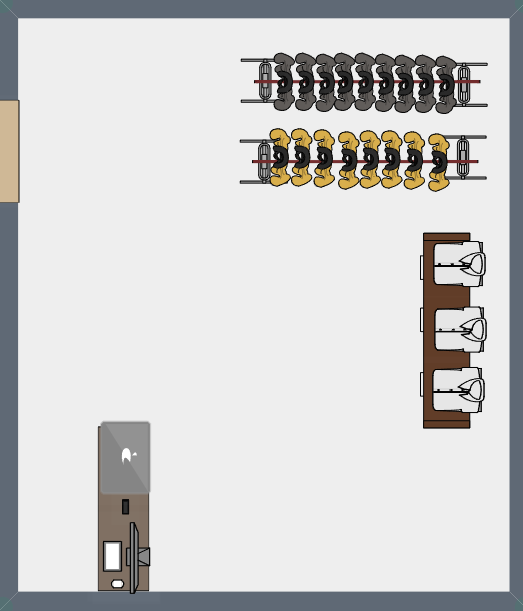
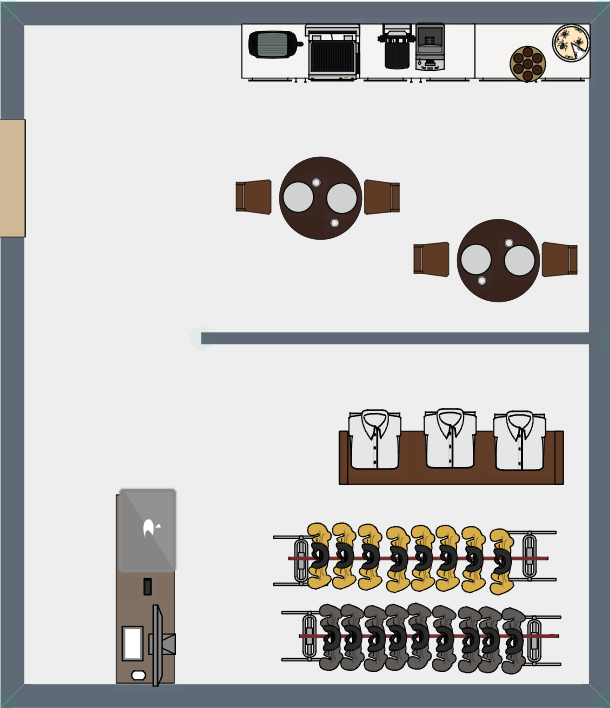
affichage evenement et ajout de quelque avenement

Changed region(s): [[0.0, 0.0, 1.0, 0.9951]]

diff --git a/src/gui/SidePanel.java b/src/gui/SidePanel.java
@@ -16,12 +16,14 @@ public class SidePanel extends JPanel {
     private Chronometer chronometer;
     private JLabel timeLabel;
     private JLabel dayLabel;
+    private JLabel globalPannelLabel;
 
     // menu de selction Sim qui contient uniquement les nome des sims et pas les istances des sims
-    private JComboBox<String> comboBox;
+
     private JProgressBar globalBar = new JProgressBar(0, 100);
     private JLabel globalVal = new JLabel("0%");
     private Sims sims;
+    private String selectedSimName;
     
     private JTextArea detailRoutine = new JTextArea();
  
@@ -29,13 +31,16 @@ public class SidePanel extends JPanel {
     private JTextArea detailEvenements = new JTextArea(10,10);
 
     public SidePanel(Chronometer chronometer, String[] array, Sims sims, ArrayList<String> derniersEvenements) {
-        this.chronometer = chronometer;
-        this.sims = sims;
-        this.derniersEvenementsList=derniersEvenements;
         this.setPreferredSize(new Dimension(GameConfiguration.SIDE_PANEL_WIDTH, GameConfiguration.WINDOW_HEIGHT));
-
         this.setLayout(new GridLayout(20, 2));
         this.setBorder(new EmptyBorder(10, 10, 10, 10));
+    	
+    	this.chronometer = chronometer;
+        this.sims = sims;
+        this.derniersEvenementsList=derniersEvenements;
+        
+
+        
 
         dayLabel = new JLabel("JOUR " + chronometer.getDay(), SwingConstants.CENTER);
         dayLabel.setFont(new Font("Monospaced", Font.BOLD, 15));
@@ -43,15 +48,19 @@ public class SidePanel extends JPanel {
         timeLabel = new JLabel("00:00:00", SwingConstants.CENTER);
         timeLabel.setFont(new Font("Monospaced", Font.BOLD, 25));
         
-        comboBox = new JComboBox<String>(array);
+
                                     
         add(new JLabel("Le nom de la ville"));
         add(dayLabel);
         add(timeLabel);
-        add(comboBox);
         
-        //nouveaux elts
-        add(new JLabel("État global du Sim"));
+        
+        //Le nom du sim selectioné
+        if (array != null && array.length > 0) {
+            selectedSimName = array[0];
+        }
+        globalPannelLabel=new JLabel("État global de "+ selectedSimName);
+        add(globalPannelLabel);
         
         JPanel globalPanel = new JPanel(new BorderLayout(5, 0));
         globalBar.setStringPainted(false);
@@ -69,12 +78,17 @@ public class SidePanel extends JPanel {
         routineBtn.addActionListener(e -> openRoutineDialog());
         add(routineBtn);
 
-        JButton eventButton = new JButton("Evenement en cours");
-        eventButton.addActionListener(e -> openEventDialog(derniersEvenements));
+        JButton eventButton = new JButton("Alertes Sims en cours");
+        eventButton.addActionListener(e -> openEventDialog());
         add(eventButton);
         
         //add(detailRoutine);
-        add(detailEvenements);
+        detailEvenements.setEditable(false);
+        detailEvenements.setLineWrap(true);
+        detailEvenements.setWrapStyleWord(true);
+        JScrollPane scrollPane = new JScrollPane(detailEvenements);
+        scrollPane.setPreferredSize(new Dimension(GameConfiguration.SIDE_PANEL_WIDTH - 30, 150));
+        add(scrollPane);
 
         nextRound();
     }
@@ -138,7 +152,7 @@ public class SidePanel extends JPanel {
         
     }
 
-    private void openEventDialog(ArrayList<String> derniersEvenements) {
+    private void openEventDialog() {
 
 
         String buffer = "" ;
@@ -148,10 +162,9 @@ public class SidePanel extends JPanel {
                 buffer+= sim.getNom() + " : " + sim.getEtats().toString() + "\n" ;
         }
         buffer += "";
-        buffer += derniersEvenements.toString();
         JTextArea textArea ;
         if (buffer.equals("")){
-            textArea = new JTextArea("aucun evenement en cours");
+            textArea = new JTextArea("Aucune alerte Sim en cours");
         }
         else {
             textArea = new JTextArea(buffer);
@@ -161,7 +174,7 @@ public class SidePanel extends JPanel {
         textArea.setFont(new Font("Monospaced", Font.PLAIN, 13));
         
         JOptionPane pane = new JOptionPane(textArea, JOptionPane.PLAIN_MESSAGE);
-        JDialog dialog = pane.createDialog(this, "Evenements en cours : ");
+        JDialog dialog = pane.createDialog(this, "Alertes Sims en cours: ");
         
         dialog.setVisible(true);
         
@@ -173,20 +186,38 @@ public class SidePanel extends JPanel {
             timeLabel.setText(chronometer.toString());
             dayLabel.setText("JOUR " + chronometer.getDay());
         }
+        
+        globalPannelLabel.setText("État global de "+ selectedSimName);
+        
         Sim s = sims.getSim(getSelectedSim());
         if (s != null) {
             int score = s.getScoreGlobal();
             globalBar.setValue(score);
             globalVal.setText(score + "%");
             
+            
             detailRoutine.setText(s.getRoutine().toString());
-            detailEvenements.setText(this.derniersEvenementsList.toString());
+            
+            detailEvenements.setText(printEventList());
         }
     }
-
-    
-    public String getSelectedSim() {
-        return (String) comboBox.getSelectedItem();
+    private String printEventList() {
+    	StringBuilder buffer= new StringBuilder("Les dernier evenements: \n");
+    	int dim=derniersEvenementsList.size()-1;
+    	for(int i=dim; i>=0; i-- ) {
+    		buffer.append(derniersEvenementsList.get(i)+"\n");
+    	}
+		return buffer.toString();
+    	
     }
+    
+    public void setSelectedSim(String name) {
+        this.selectedSimName = name;
+    }
+
+    public String getSelectedSim() {
+        return selectedSimName;
+    }
+
 
 }

diff --git a/src/gui/PaintStrategy.java b/src/gui/PaintStrategy.java
@@ -39,13 +39,13 @@ public class PaintStrategy {
 			for (int columnIndex = 0; columnIndex < map.getColumnCount(); columnIndex++) {
 				Block block = blocks[lineIndex][columnIndex];
 
-				graphics.setColor(Color.GREEN);
+				graphics.setColor(Color.GREEN.darker());
 				graphics.fillRect(block.getColumn() * blockSize, block.getLine() * blockSize, blockSize, blockSize);
-				
+				/*
 				if ((lineIndex + columnIndex) % 2 == 0) {
 					graphics.setColor(Color.green.darker());
 					graphics.fillRect(block.getColumn() * blockSize, block.getLine() * blockSize, blockSize, blockSize);
-				}
+				}*/
 			}
 		}
 	}
@@ -164,9 +164,8 @@ public class PaintStrategy {
 		g2.drawImage(GameUtility.readImage("src/images/salle.png"),14*sizeBlock,  15* sizeBlock, 4*sizeBlock,4*sizeBlock, null);
 		g2.drawImage(GameUtility.readImage("src/images/hopital.png"),19*sizeBlock,  14* sizeBlock, 5*sizeBlock,5*sizeBlock, null);
 		g2.drawImage(GameUtility.readImage("src/images/mall.png"),24*sizeBlock,  6* sizeBlock, 5*sizeBlock,6*sizeBlock, null);
-		
-		g2.drawImage(GameUtility.readImage("src/images/lycee.png"),8*sizeBlock,   0*sizeBlock, 6*sizeBlock,4*sizeBlock, null);
 		g2.drawImage(GameUtility.readImage("src/images/usine.png"),22*sizeBlock,  0* sizeBlock, 8*sizeBlock,4*sizeBlock, null);
+		g2.drawImage(GameUtility.readImage("src/images/ecole.png"),8*sizeBlock,   0*sizeBlock, 6*sizeBlock,4*sizeBlock, null);
 	}
 
 		

diff --git a/src/engine/process/EtatSimManager.java b/src/engine/process/EtatSimManager.java
@@ -41,6 +41,10 @@ public class EtatSimManager {
 
     public Sim getSimChoisi() {
         return simChoisi;
+        
+        
+        
+        
     }
 
     public void updateBesoins() {
@@ -304,7 +308,8 @@ public class EtatSimManager {
     	Sim sim = getRandomSim(); 
     	Evenement event = getRandomEvent(); 
     	updateBesoinsEvenement(sim, event); 
-    	derniersEvenements.add(sim.getNom()+":"+event.getNom());
+    	//j'enregistre les evenement dans un list qui est dans un classe de traitement faut changer ca
+    	derniersEvenements.add(sim.getNom()+"-> "+event.toString());
     }
 
     

diff --git a/src/gui/MainGUI.java b/src/gui/MainGUI.java
@@ -130,6 +130,13 @@ public class MainGUI extends JFrame implements Runnable {
 			int y = e.getY();
 			Block nvlPosition = dashboard.getSimPosition(x , y);
 			SimMenager.simMove(nvlPosition);
+			
+			//on prends le derenier sim selectioné et on affiche ca barre generale
+			Sim simChoisi = SimMenager.getSimChoisi();
+	        if (simChoisi != null) {
+	            sidePanel.setSelectedSim(simChoisi.getNom());
+	        }
+
 			dashboard.repaint();
 		}
 		@Override public void mousePressed(MouseEvent e) {}

diff --git a/src/engine/process/GameBuilder.java b/src/engine/process/GameBuilder.java
@@ -49,7 +49,9 @@ public class GameBuilder {
 		eventRep.register(new Evenement("sautRepas", "faim", 20));  
 		eventRep.register(new Evenement("malade", "physique", 15));
 		eventRep.register(new Evenement("urgenceMedicale", "physique", 50)); 
-
+		eventRep.register(new Evenement("dispute", "mental", 20));
+		eventRep.register(new Evenement("Equipe du coeur perd", "mental", 7));
+		
 }
 
 }

diff --git a/src/engine/donnee/Evenement.java b/src/engine/donnee/Evenement.java
@@ -1,8 +1,7 @@
 package engine.donnee;
 
 public class Evenement {
-    
-    private String nom ;
+	private String nom ;
     private String barreImpactee ;
     private int impact ;
 
@@ -24,6 +23,9 @@ public class Evenement {
 		return impact;
 	}
 
-
+    @Override
+	public String toString() {
+		return nom +":  perds "+ impact +" de " + barreImpactee;
+	}
 
 }

diff --git a/src/engine/process/EvenementsRepository.java b/src/engine/process/EvenementsRepository.java
@@ -22,8 +22,6 @@ public class EvenementsRepository {
 	public static EvenementsRepository getInstance() {
 		return instance;
 	}
-
-	
     
 	public void register(Evenement event) {
 		evenements.put(event.getNom(), event);
